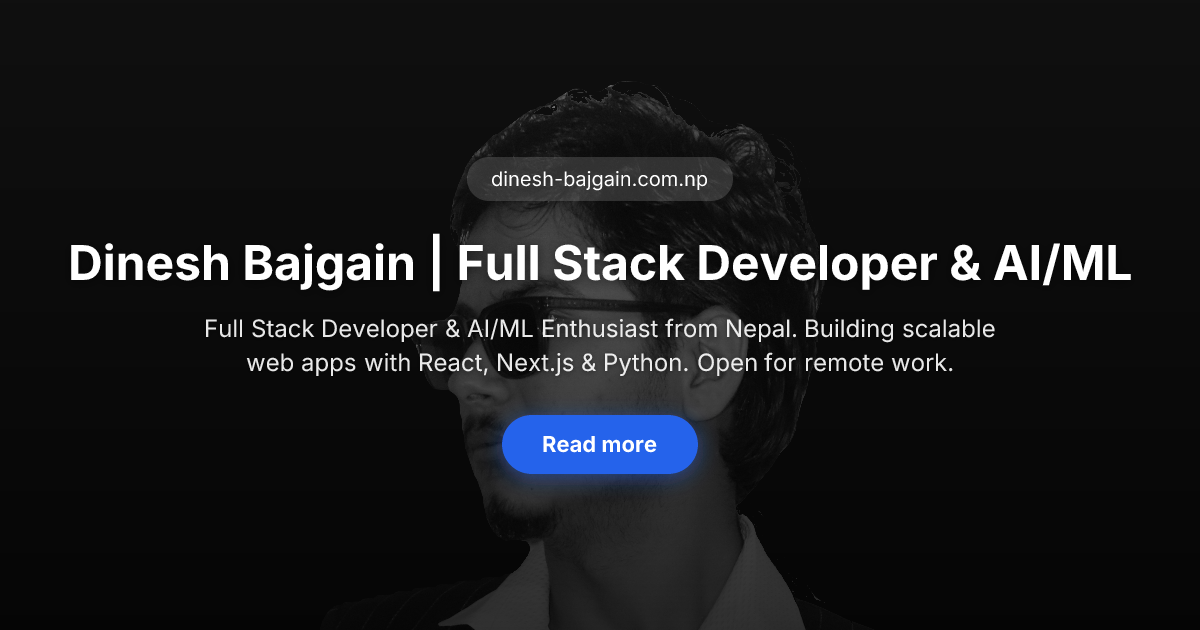
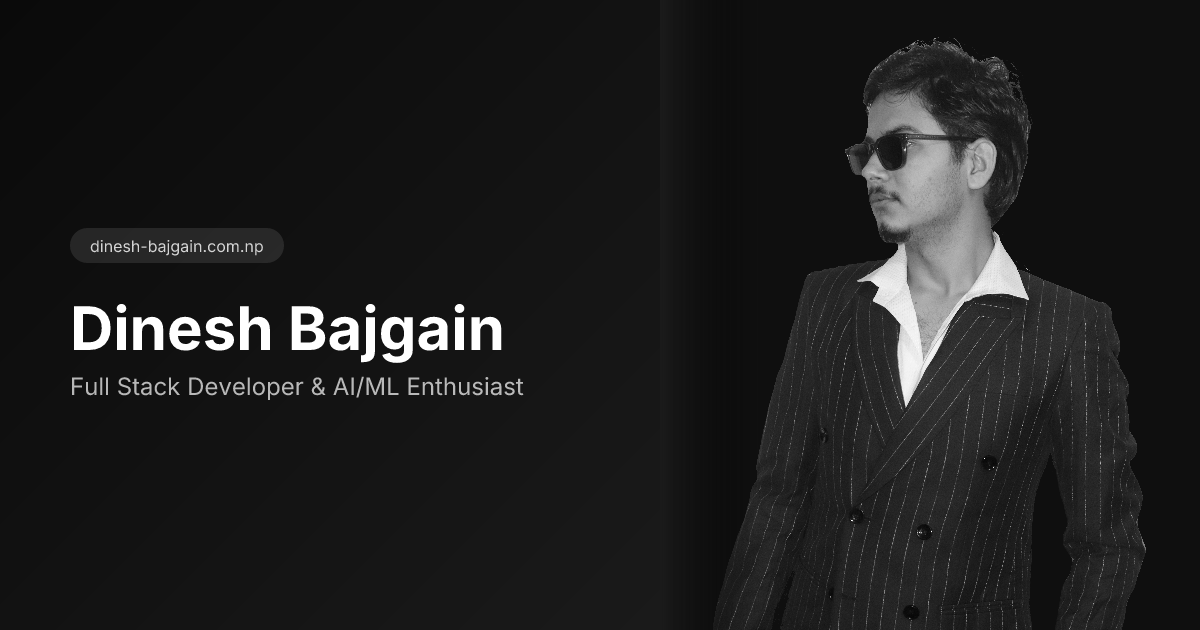
feat: update Open Graph image layout and styling for improved visual appeal

diff --git a/scripts/generate-og-image.tsx b/scripts/generate-og-image.tsx
@@ -47,114 +47,96 @@ async function generateOGImage() {
         width: "100%",
         display: "flex",
         position: "relative",
-        backgroundColor: "#1a1a1a",
+        backgroundColor: "#0f0f0f",
       }}
     >
-      {/* Background Portrait Image */}
-      <img
-        src={portraitBase64}
-        style={{
-          position: "absolute",
-          top: 0,
-          left: 0,
-          width: "100%",
-          height: "100%",
-          objectFit: "cover",
-          objectPosition: "center top",
-          filter: "grayscale(100%)",
-        }}
-      />
-
-      {/* Dark Overlay */}
+      {/* Left Side - Text Content */}
       <div
         style={{
-          position: "absolute",
-          top: 0,
-          left: 0,
-          width: "100%",
-          height: "100%",
-          background:
-            "linear-gradient(to bottom, rgba(0,0,0,0.4) 0%, rgba(0,0,0,0.6) 50%, rgba(0,0,0,0.8) 100%)",
-          display: "flex",
-        }}
-      />
-
-      {/* Content */}
-      <div
-        style={{
-          position: "absolute",
-          top: 0,
-          left: 0,
-          width: "100%",
+          width: "55%",
           height: "100%",
           display: "flex",
           flexDirection: "column",
-          alignItems: "center",
+          alignItems: "flex-start",
           justifyContent: "center",
-          padding: "60px",
+          padding: "60px 70px",
+          background: "linear-gradient(135deg, #0a0a0a 0%, #1a1a1a 100%)",
         }}
       >
         {/* Domain Badge */}
         <div
           style={{
             display: "flex",
-            padding: "10px 24px",
-            backgroundColor: "rgba(255,255,255,0.15)",
+            padding: "8px 20px",
+            backgroundColor: "rgba(255,255,255,0.1)",
             borderRadius: "9999px",
-            fontSize: "20px",
-            color: "#ffffff",
+            fontSize: "16px",
+            color: "rgba(255,255,255,0.8)",
             marginBottom: "32px",
-            backdropFilter: "blur(10px)",
           }}
         >
           {siteUrl}
         </div>
 
-        {/* Title */}
+        {/* Name */}
         <div
           style={{
-            fontSize: "48px",
+            fontSize: "60px",
             fontWeight: 700,
             color: "#ffffff",
-            marginBottom: "20px",
-            textAlign: "center",
-            textShadow: "0 2px 10px rgba(0,0,0,0.5)",
+            lineHeight: 1.1,
+            marginBottom: "8px",
           }}
         >
-          {title}
+          Dinesh Bajgain
         </div>
 
-        {/* Description */}
+        {/* Title */}
         <div
           style={{
             fontSize: "24px",
             fontWeight: 400,
-            color: "rgba(255,255,255,0.9)",
-            marginBottom: "36px",
-            textAlign: "center",
-            maxWidth: "800px",
+            color: "rgba(255,255,255,0.7)",
             lineHeight: 1.4,
-            textShadow: "0 1px 5px rgba(0,0,0,0.5)",
           }}
         >
-          {description}
+          Full Stack Developer & AI/ML Enthusiast
         </div>
+      </div>
 
-        {/* Read More Button */}
+      {/* Right Side - Portrait */}
+      <div
+        style={{
+          width: "45%",
+          height: "100%",
+          display: "flex",
+          position: "relative",
+          overflow: "hidden",
+        }}
+      >
+        <img
+          src={portraitBase64}
+          style={{
+            width: "100%",
+            height: "100%",
+            objectFit: "cover",
+            objectPosition: "center top",
+            filter: "grayscale(100%)",
+          }}
+        />
+        {/* Gradient overlay for smooth blend */}
         <div
           style={{
+            position: "absolute",
+            top: 0,
+            left: 0,
+            width: "100px",
+            height: "100%",
+            background:
+              "linear-gradient(to right, #1a1a1a 0%, transparent 100%)",
             display: "flex",
-            padding: "16px 40px",
-            backgroundColor: "#2563eb",
-            borderRadius: "9999px",
-            fontSize: "22px",
-            fontWeight: 700,
-            color: "#ffffff",
-            boxShadow: "0 4px 20px rgba(37, 99, 235, 0.5)",
           }}
-        >
-          Read more
-        </div>
+        />
       </div>
     </div>,
     {
